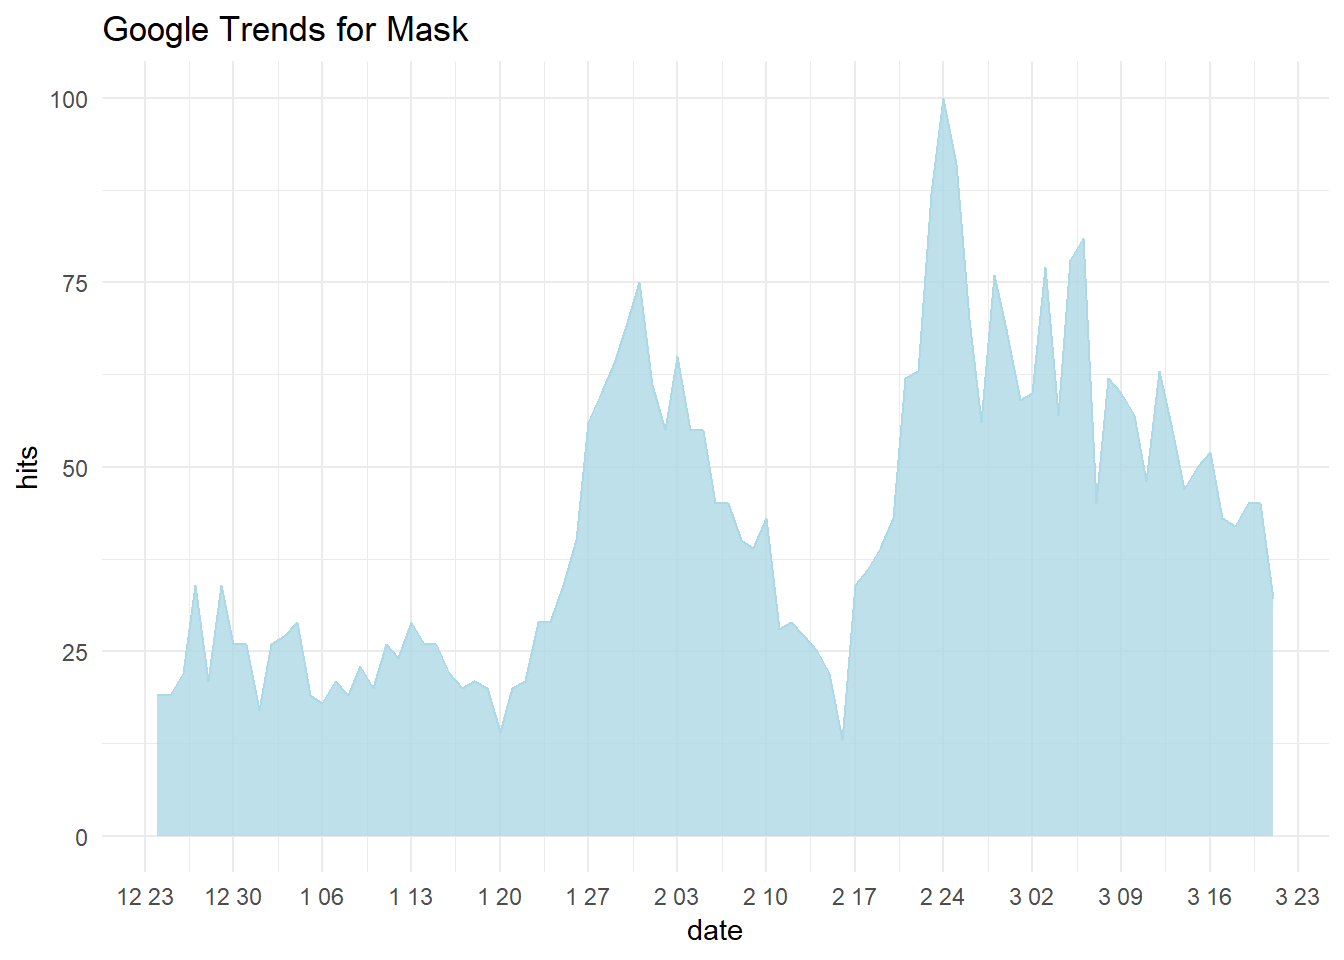
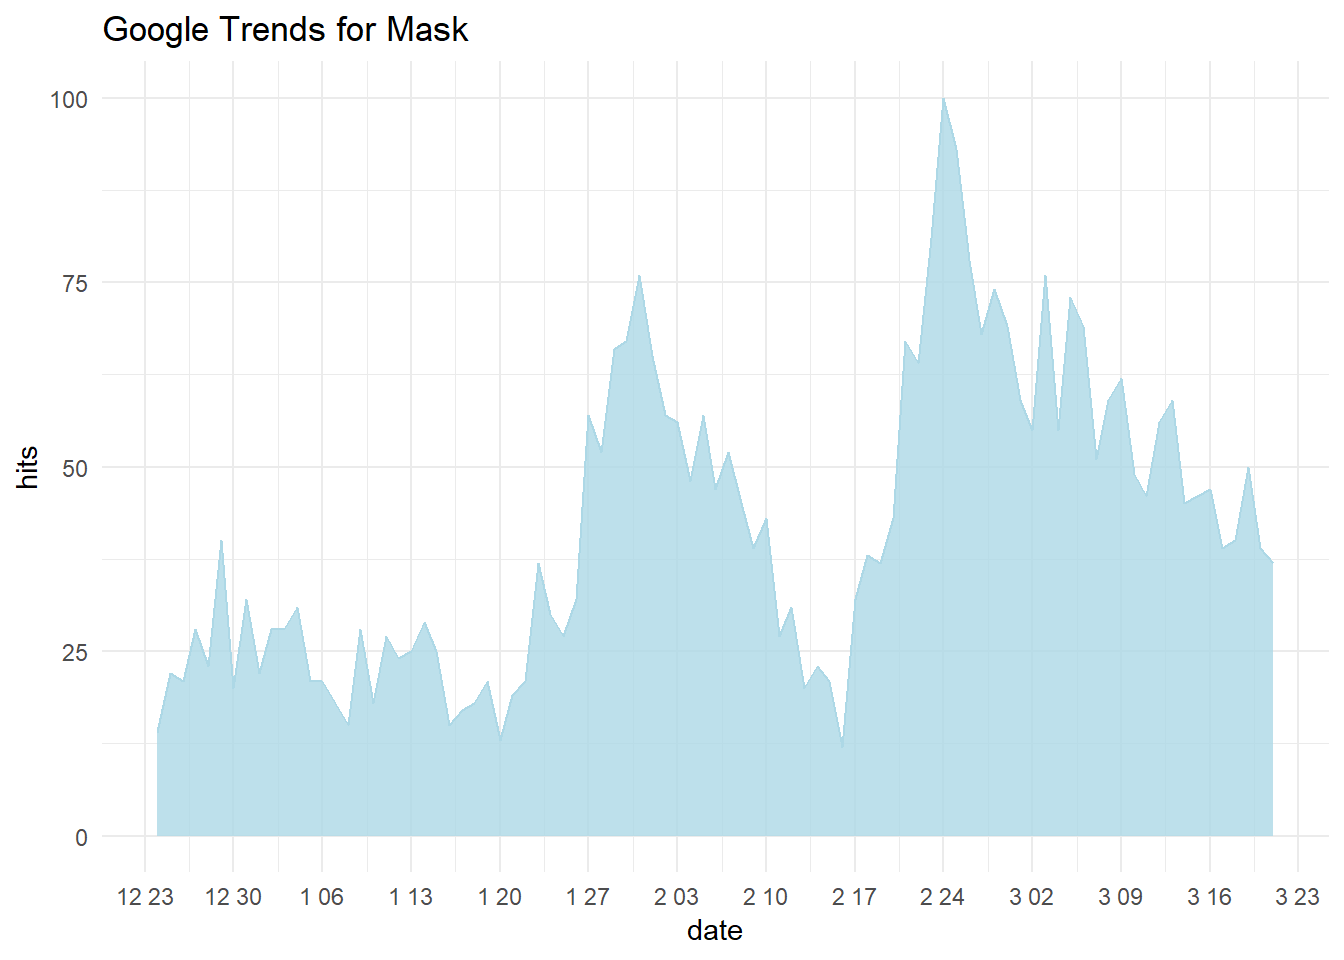
commit

diff --git a/content/post/2020-03-24-google-trend-for-mask.html b/content/post/2020-03-24-google-trend-for-mask.html
@@ -25,10 +25,12 @@ if (!(Encoding(search_terms ) == &quot;UTF-8&quot;)) {
     search_terms  &lt;- iconv(search_terms , &quot;&quot;, &quot;UTF-8&quot;, sub = &quot;byte&quot;)
 }
 
-output_results &lt;- gtrends(keyword = search_terms, geo = &quot;KR&quot;, time = &quot;today 3-m&quot;)</code></pre>
-<p>그래프로 시각화를 해보았습니다.</p>
+output_results &lt;- gtrends(keyword = search_terms, geo = &quot;KR&quot;, time = &quot;today 3-m&quot;)
+
+output_results2 &lt;- read_csv(&quot;multiTimeline.csv&quot;)</code></pre>
+<p>그래프로 시각화를 해보았습니다. 3월 초에 피크였다가 살살 내려가고 있군요. 아마 공적 마스크 판매가 어느 정도 안정화 시키는 효과가 있는 것 같습니다.</p>
 <pre class="r"><code>output_results %&gt;% 
-  .$interest_over_time %&gt;% 
+  .$interest_over_time %&gt;%
   ggplot(aes(x = as.Date(date) , y = as.numeric(hits))) + 
   geom_area(fill = &quot;lightblue&quot;, alpha = 0.8) + 
   geom_line(color = &quot;lightblue&quot;) + 
@@ -36,4 +38,13 @@ output_results &lt;- gtrends(keyword = search_terms, geo = &quot;KR&quot;, time 
   labs( x = &quot;date&quot;, y = &quot;hits&quot;, title = &quot;Google Trends for Mask&quot; ) + 
   theme_minimal()</code></pre>
 <p><img src="/post/2020-03-24-google-trend-for-mask_files/figure-html/unnamed-chunk-2-1.png" width="672" /></p>
+<p>이번에는 손으로 “마스크”를 검색해서 다운 받은 자료를 이용해서 다시 그려보았습니다. 모양은 약간 다른데, 추세는 얼추 비슷하군요.</p>
+<pre class="r"><code>output_results2 %&gt;% 
+  ggplot(aes(x = as.Date(date) , y = as.numeric(hit))) + 
+  geom_area(fill = &quot;lightblue&quot;, alpha = 0.8) + 
+  geom_line(color = &quot;lightblue&quot;) + 
+  scale_x_date(date_labels = &quot;%b %d&quot;, breaks = &quot;1 week&quot;) + 
+  labs( x = &quot;date&quot;, y = &quot;hits&quot;, title = &quot;Google Trends for Mask&quot; ) + 
+  theme_minimal()</code></pre>
+<p><img src="/post/2020-03-24-google-trend-for-mask_files/figure-html/unnamed-chunk-3-1.png" width="672" /></p>
 </div>
